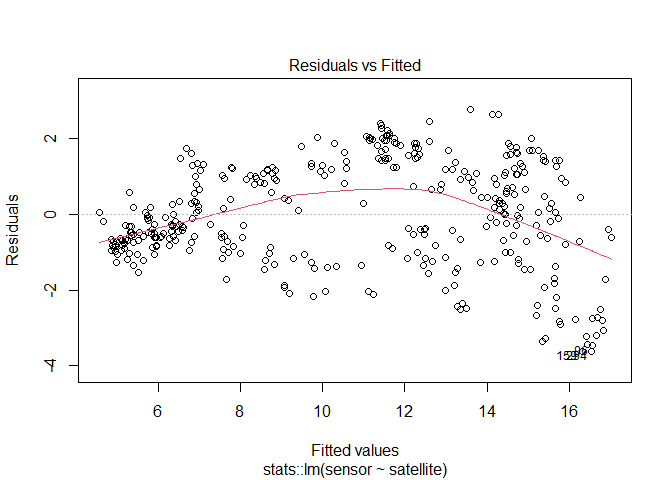
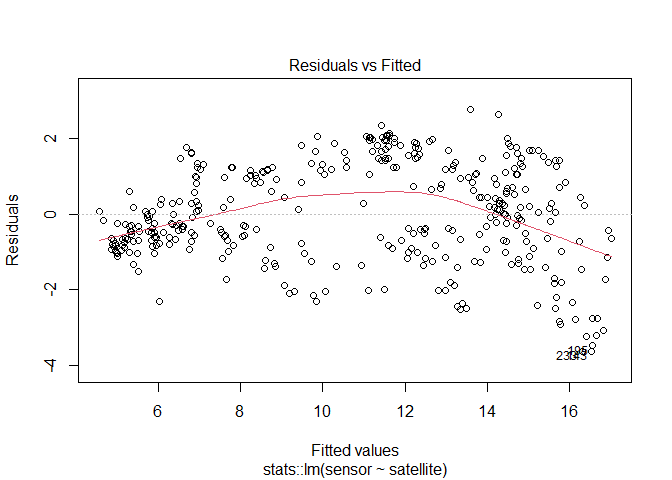
update readme with exampledata for tcm

diff --git a/README.md b/README.md
@@ -297,20 +297,20 @@ x <- read_tiltometer()
 x
 ```
 
-    ## # A tibble: 67,681 × 5
+    ## # A tibble: 87,121 × 5
     ##    DateTime            speed   dir     v     u
     ##    <dttm>              <dbl> <dbl> <dbl> <dbl>
-    ##  1 2021-05-15 00:00:00  0.95  319   0.71 -0.62
-    ##  2 2021-05-15 00:02:00  1.24  321.  0.96 -0.79
-    ##  3 2021-05-15 00:04:00  0.88  315.  0.63 -0.63
-    ##  4 2021-05-15 00:06:00  1.01  327.  0.84 -0.55
-    ##  5 2021-05-15 00:08:00  1.11  300.  0.55 -0.96
-    ##  6 2021-05-15 00:10:00  1.31  326.  1.09 -0.72
-    ##  7 2021-05-15 00:12:00  1.8   339.  1.68 -0.65
-    ##  8 2021-05-15 00:14:00  0.93  323.  0.74 -0.57
-    ##  9 2021-05-15 00:16:00  0.72  351.  0.71 -0.11
-    ## 10 2021-05-15 00:18:00  1.43  325.  1.17 -0.82
-    ## # ℹ 67,671 more rows
+    ##  1 2022-04-16 00:00:00  3.76  18.5  3.57  1.2 
+    ##  2 2022-04-16 00:02:00  7.52 320.   5.77 -4.82
+    ##  3 2022-04-16 00:04:00  7.07 353.   7.02 -0.87
+    ##  4 2022-04-16 00:06:00  5.26 118.  -2.47  4.65
+    ##  5 2022-04-16 00:08:00  8.7  348.   8.5  -1.85
+    ##  6 2022-04-16 00:10:00  8.45 228.  -5.62 -6.31
+    ##  7 2022-04-16 00:12:00  8.22 117.  -3.68  7.35
+    ##  8 2022-04-16 00:14:00  6.61 165.  -6.37  1.75
+    ##  9 2022-04-16 00:16:00  0.91 355.   0.91 -0.08
+    ## 10 2022-04-16 00:18:00  2.41  56.6  1.32  2.01
+    ## # ℹ 87,111 more rows
 
 ### Function: draw_uv()
 
@@ -332,9 +332,10 @@ This will produce a windrose plot of the tilt current data
 #### Draw example windrose plot
 
 ``` r
-#month <- droplevels(factor(format(x$date, "%b"), levels = month.abb))
-#tiltometer_rose(x, facet = month, n_col = 2, speed.cuts = "quantile-4")
+tiltometer_rose(x, speed.cuts = "quantile-4")
 ```
+
+![](README_files/figure-gfm/windrose-1.png)<!-- -->
 
 ## Wave Logger Data (Open Wave Height Loggers)
 
@@ -527,18 +528,18 @@ summary(model)
     ## 
     ## Residuals:
     ##     Min      1Q  Median      3Q     Max 
-    ## -3.6216 -0.8397 -0.0798  1.1582  2.7799 
+    ## -3.6283 -0.8241 -0.0868  1.1431  2.7793 
     ## 
     ## Coefficients:
     ##             Estimate Std. Error t value Pr(>|t|)    
-    ## (Intercept)  2.47645    0.17179   14.42   <2e-16 ***
-    ## satellite    0.68337    0.01297   52.67   <2e-16 ***
+    ## (Intercept)  2.45364    0.16761   14.64   <2e-16 ***
+    ## satellite    0.68481    0.01256   54.51   <2e-16 ***
     ## ---
     ## Signif. codes:  0 '***' 0.001 '**' 0.01 '*' 0.05 '.' 0.1 ' ' 1
     ## 
-    ## Residual standard error: 1.36 on 361 degrees of freedom
-    ## Multiple R-squared:  0.8848, Adjusted R-squared:  0.8845 
-    ## F-statistic:  2774 on 1 and 361 DF,  p-value: < 2.2e-16
+    ## Residual standard error: 1.3 on 361 degrees of freedom
+    ## Multiple R-squared:  0.8917, Adjusted R-squared:  0.8914 
+    ## F-statistic:  2972 on 1 and 361 DF,  p-value: < 2.2e-16
 
 ``` r
 modelresult <- predict_data(model = model, modeldata = modeldat) 
@@ -546,12 +547,12 @@ head(modelresult)
 ```
 
     ##     DateTime   sensor satellite predicted
-    ## 1 2023-01-01 8.541375  6.782007  7.111096
-    ## 2 2023-01-02 8.416854  6.337000  6.806990
-    ## 3 2023-01-03 8.437542  6.162012  6.687408
-    ## 4 2023-01-04 8.433583  6.353998  6.818606
-    ## 5 2023-01-05 8.302479  6.563989  6.962109
-    ## 6 2023-01-06 8.023813  5.960992  6.550036
+    ## 1 2023-01-01 8.541375  6.782007  7.098016
+    ## 2 2023-01-02 8.416854  6.337000  6.793272
+    ## 3 2023-01-03 8.437542  6.162012  6.673438
+    ## 4 2023-01-04 8.433583  6.353998  6.804912
+    ## 5 2023-01-05 8.302479  6.563989  6.948716
+    ## 6 2023-01-06 8.023813  5.960992  6.535779
 
 ### Function: draw_satsensor_plot()
 
